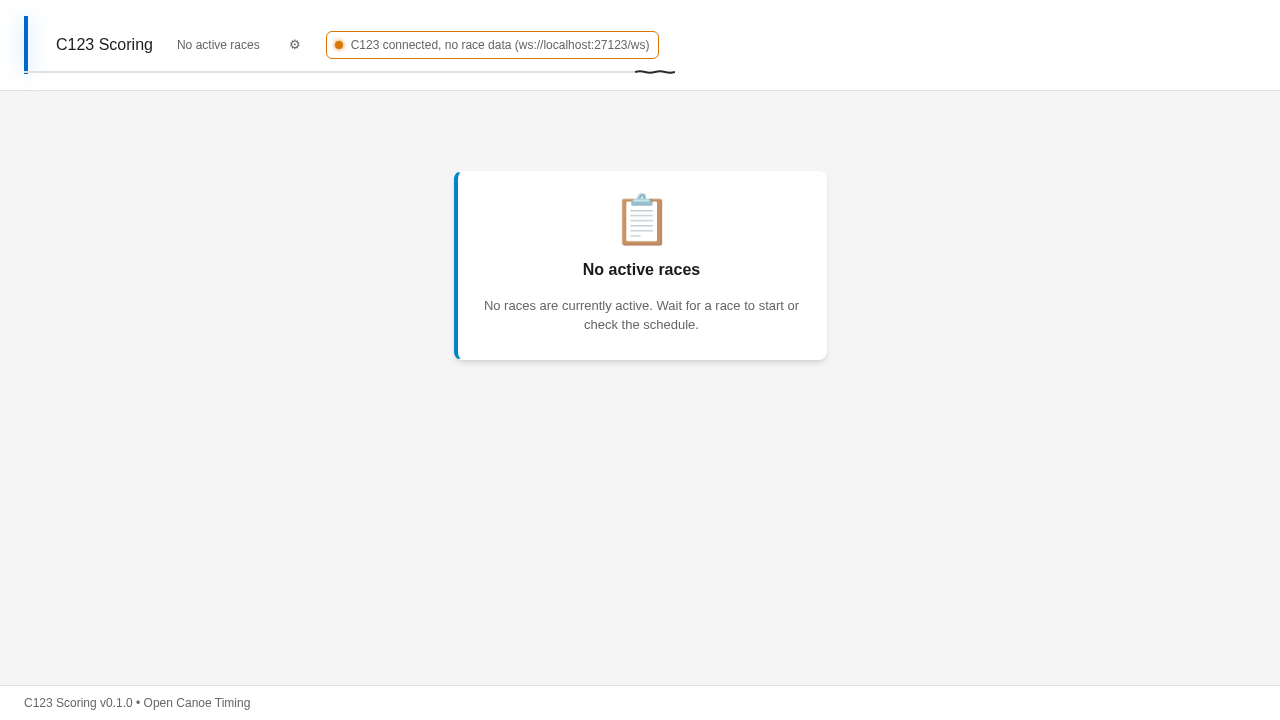
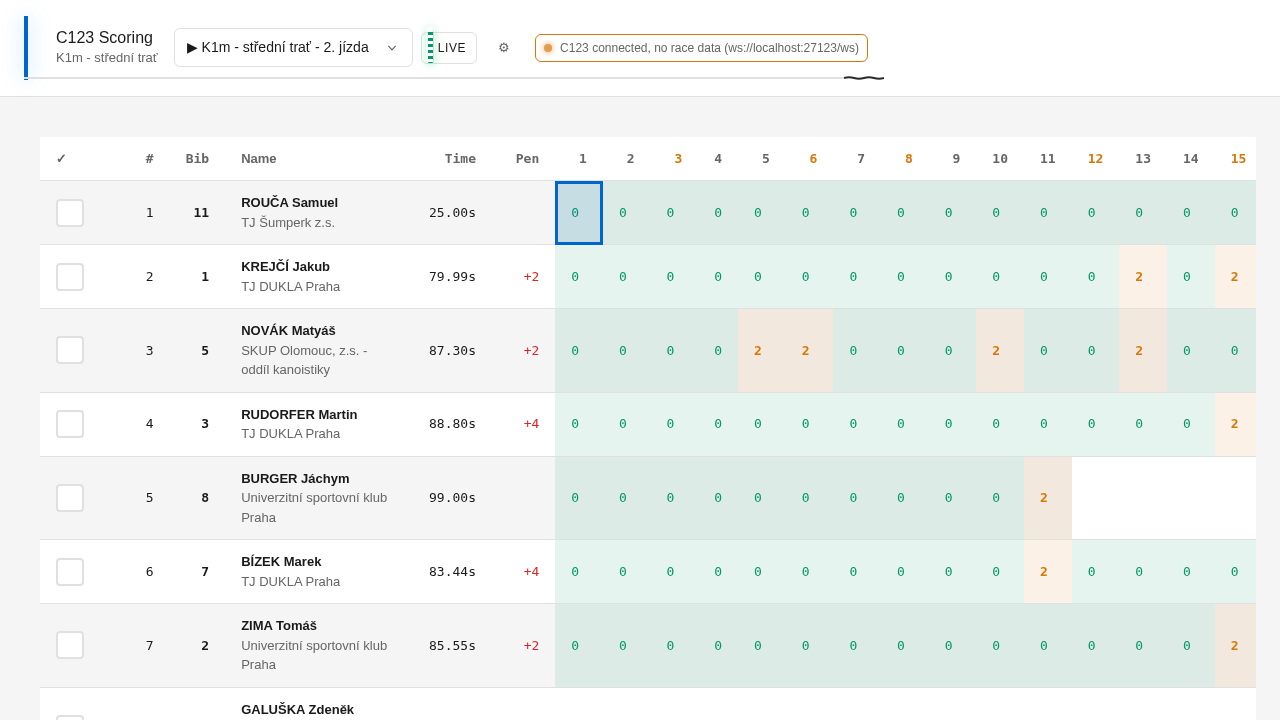
test: update screenshots with real race data from replay server
Screenshots now show actual competitor data (K1m - střední trať - 2. jízda)
instead of empty "No active races" state.

diff --git a/tests/screenshots-with-data.spec.ts b/tests/screenshots-with-data.spec.ts
@@ -139,9 +139,12 @@ test.describe('Screenshot Tests - With Data', () => {
   });
 
   test('17 - dark mode', async ({ page }) => {
-    // Enable dark mode via media query emulation
+    // Enable dark mode via media query emulation BEFORE navigation
     await page.emulateMedia({ colorScheme: 'dark' });
     await waitForDataAndSelectRace(page);
+    // Extra wait to ensure K1m data loads
+    await page.waitForSelector('.competitor-row', { timeout: 10000 }).catch(() => {});
+    await page.waitForTimeout(500);
     await takeDocScreenshot(page, '17-dark-mode');
   });
 });
